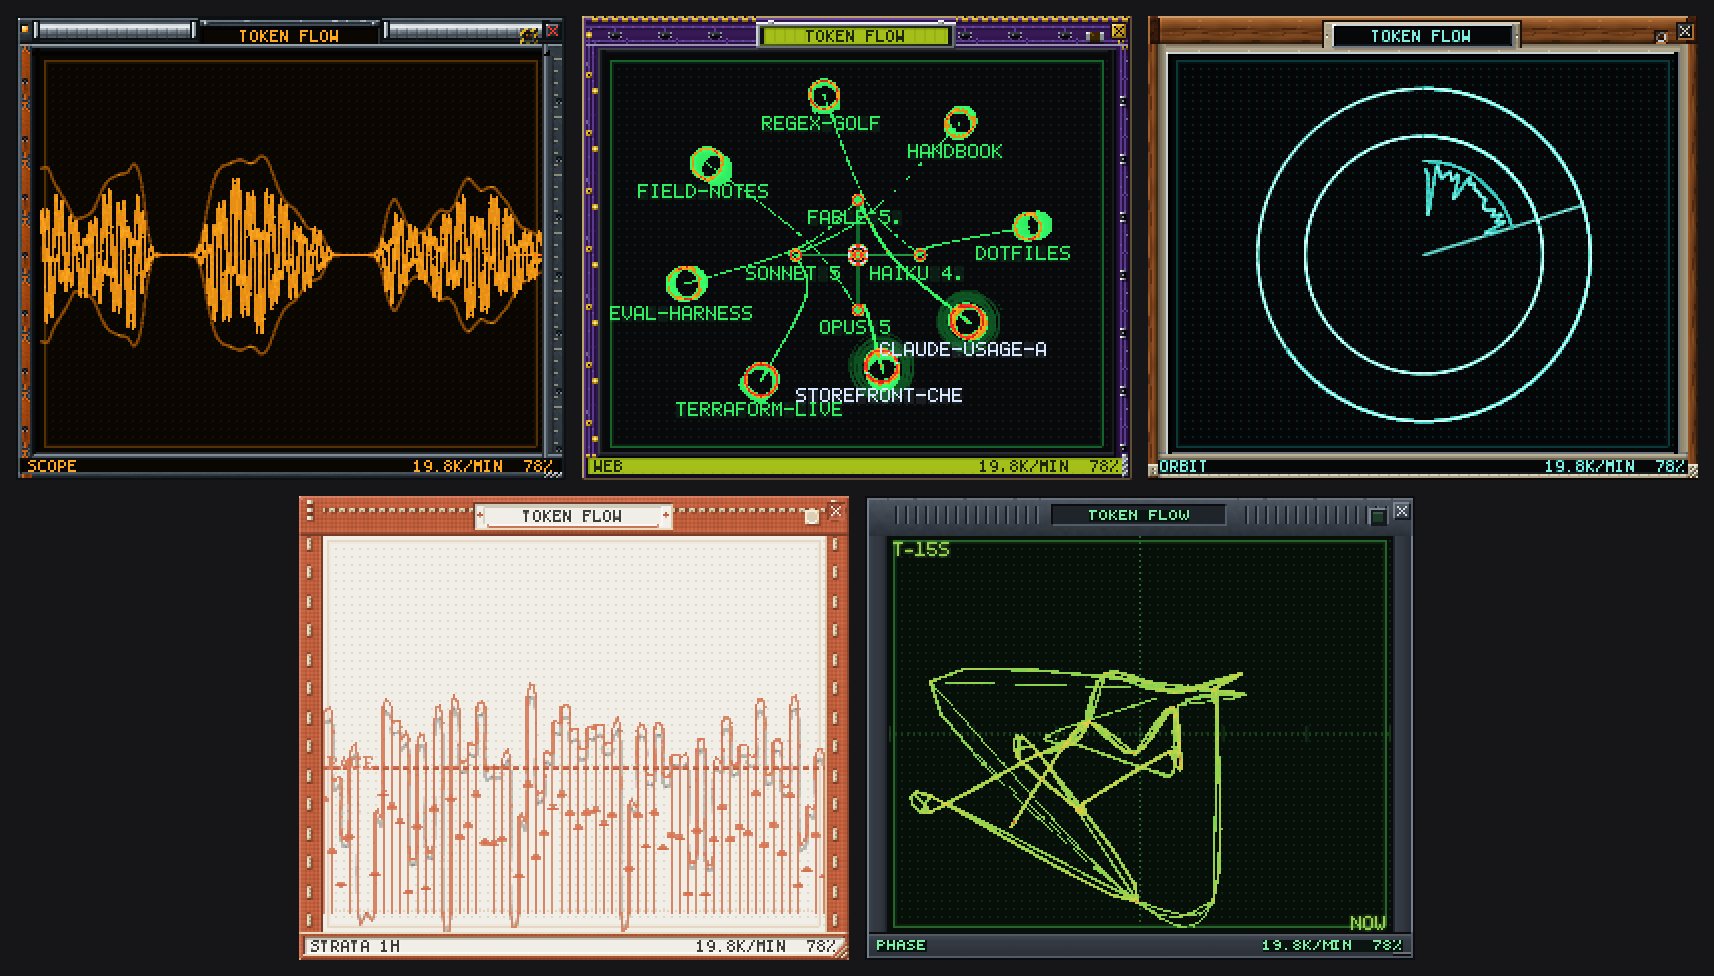
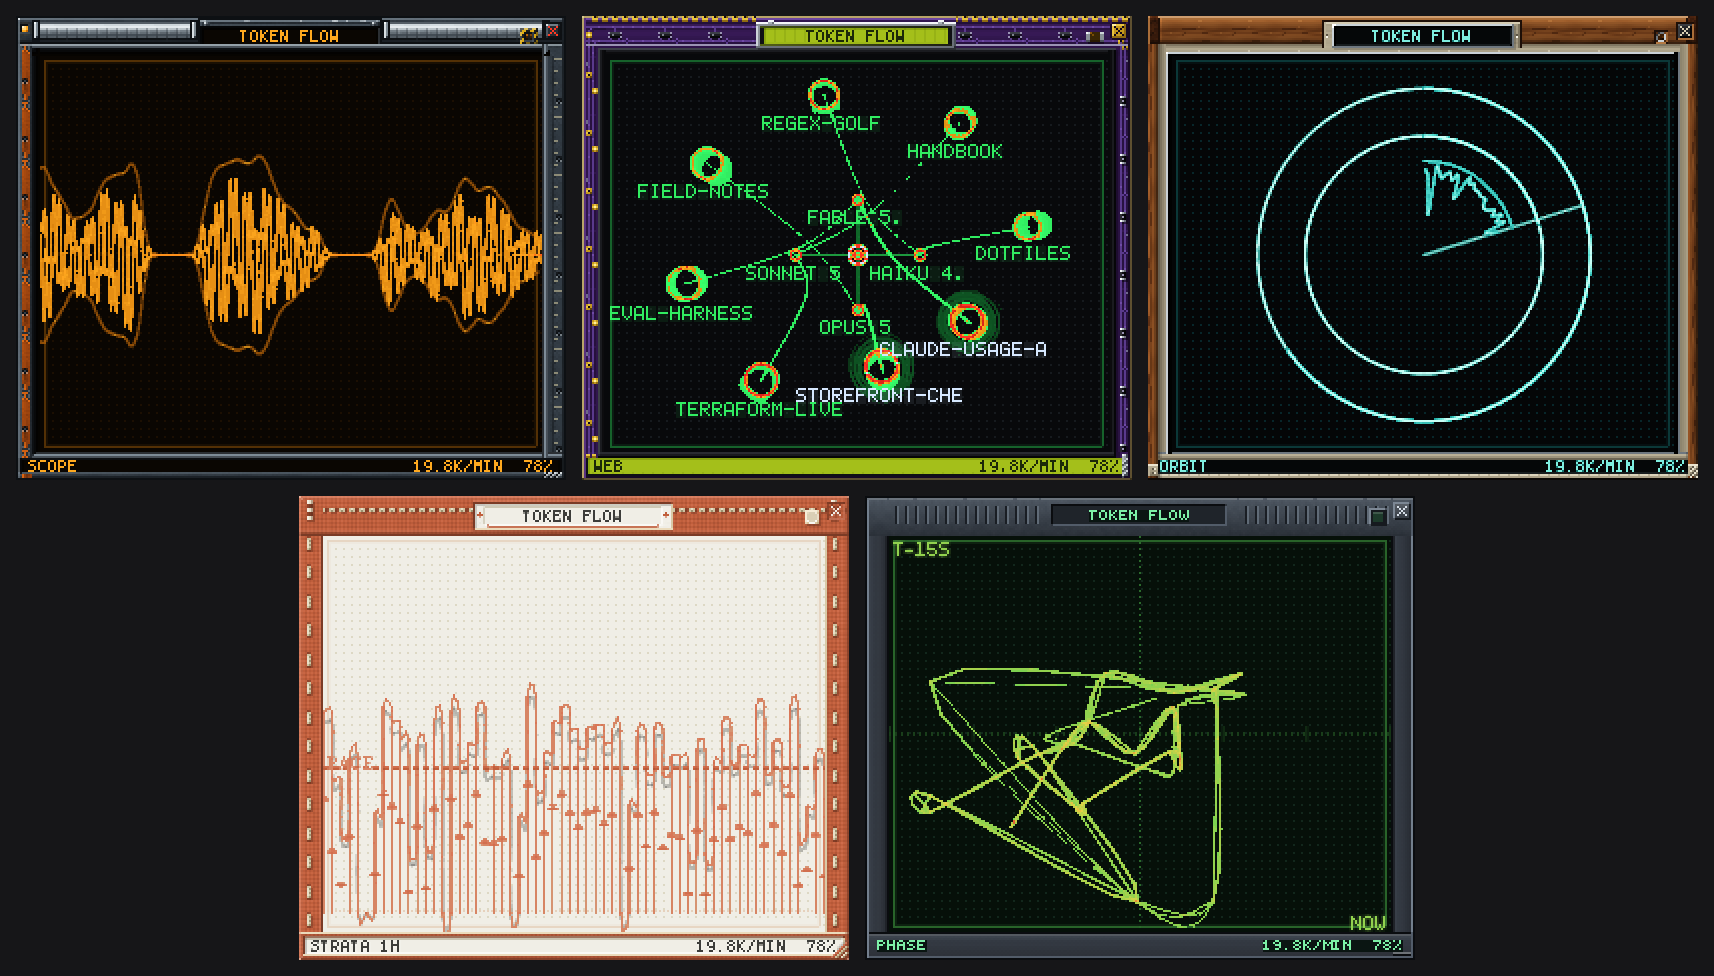
Make the phosphor tail draw motion instead of smearing a jump
Persistence is a property of a beam: it means the display is still showing where
the beam has been. SCOPE was not moving, though - it redrew the same waveform
every frame and then jumped a whole bucket every five seconds, so the tail was
smearing that jump rather than trailing anything.

SCOPE now scrolls continuously, sliding by the fraction of the newest 5 s bucket
elapsed, so the waveform flows past a beam head pinned at the right edge and the
tail is a genuine motion trail. The signal is sampled where it is rather than
where it is drawn, and the carrier phase travels with it, so the whole trace
moves as one piece instead of the outline sliding over a fixed ripple.

STRATA and PHASE are plots, not beams: they stand still until the data rolls.
They now get a short fixed tail, so a rolled bucket lands crisp.

--snapshot output stays byte-identical across processes.

Changed region(s): [[0.0, 0.1537, 0.3401, 0.3689]]

diff --git a/Sources/TokenampKit/Render/FieldGeometry.swift b/Sources/TokenampKit/Render/FieldGeometry.swift
@@ -32,7 +32,7 @@ public enum FieldGeometry {
                             mods: FieldModulators, span: FieldSpan,
                             flows: [String: Double], t: Double, now: Date) -> [FieldLabel] {
         switch mode {
-        case .scope: drawScope(f, s, mods, t); return []
+        case .scope: drawScope(f, s, mods, now); return []
         case .strata: return drawStrata(f, s, mods, span, now)
         case .web: return drawWeb(f, s, mods, flows, t, now)
         case .orbit: return drawOrbit(f, s, mods, t)
@@ -89,7 +89,7 @@ public enum FieldGeometry {
 
     /// The bipolar trace over the last 6 min 20 s: what came out above the axis, what went in
     /// below, and the context that was re-read as a mirrored echo behind both.
-    static func drawScope(_ f: PhosphorField, _ s: UsageSnapshot, _ m: FieldModulators, _ t: Double) {
+    static func drawScope(_ f: PhosphorField, _ s: UsageSnapshot, _ m: FieldModulators, _ now: Date) {
         let w = Double(f.width), h = Double(f.height), cy = h / 2
         let lastColumn = w - 1
         let amp = h / 2 - 10
@@ -113,6 +113,18 @@ public enum FieldGeometry {
         let into = envelope({ Double($0.tokens.input + $0.tokens.cacheWrite) }, 120, 24_000)
         let reread = envelope({ Double($0.tokens.cacheRead) }, 20_000, 1_200_000)
 
+        // How far into the newest 5-second bucket we are. The whole trace slides left by that
+        // fraction of a bucket, so the waveform flows past a beam head pinned at the right edge
+        // instead of standing still and jumping a whole bucket every five seconds - which is what
+        // turns the phosphor tail into a motion trail rather than a smear of the jump.
+        let pitch = lastColumn / Double(n - 1)
+        let roll: Double
+        if let last = fine.last, last.duration > 0 {
+            roll = min(1, max(0, now.timeIntervalSince(last.start) / last.duration)) * pitch
+        } else {
+            roll = 0
+        }
+
         func sample(_ v: [Double], _ u: Double) -> Double {
             let x = u * Double(n - 1)
             let i = min(n - 2, max(0, Int(x)))
@@ -121,7 +133,7 @@ public enum FieldGeometry {
 
         var up: [CGPoint] = [], down: [CGPoint] = []
         for i in 0..<n {
-            let x = lastColumn * Double(i) / Double(n - 1)
+            let x = lastColumn * Double(i) / Double(n - 1) - roll
             let a = reread[i] * amp * 0.95
             up.append(CGPoint(x: x, y: cy - a))
             down.append(CGPoint(x: x, y: cy + a))
@@ -136,9 +148,11 @@ public enum FieldGeometry {
             let share = 1.0 / (1 + 0.55 * Double(m.beams - 1))
             var prev: CGPoint?
             for j in 0...steps {
-                let u = Double(j) / Double(steps)
-                let x = u * (w - 1)
-                let phase = x * 0.78 + Double(k) * 2.1
+                let x = Double(j) / Double(steps) * (w - 1)
+                // Sample the signal where it *is* rather than where it is drawn, and carry the
+                // phase with it, so the whole waveform scrolls as one piece.
+                let u = min(1, max(0, (x + roll) / lastColumn))
+                let phase = (x + roll) * 0.78 + Double(k) * 2.1
                 let carrier = sin(phase) * 0.66 + sin(phase * 2.37 + 1.1) * 0.34
                 let a = carrier >= 0
                     ? carrier * sample(out, u) * amp * share
@@ -152,7 +166,7 @@ public enum FieldGeometry {
             for i in stride(from: k, to: n, by: 4) where fine[i].messages > 0 {
                 let peak = out[i] >= out[max(0, i - 1)] && out[i] >= out[min(n - 1, i + 1)]
                 guard peak else { continue }
-                let x = lastColumn * Double(i) / Double(n - 1)
+                let x = lastColumn * Double(i) / Double(n - 1) - roll
                 f.segment(x, cy - 3, x, cy + 3, 3.0 * m.energy)
             }
         }

diff --git a/Sources/TokenampKit/Logic/FieldModel.swift b/Sources/TokenampKit/Logic/FieldModel.swift
@@ -115,6 +115,20 @@ public struct FieldModulators: Equatable {
         beams = max(1, min(4, s.activeSessionCount))
     }
 
+    /// How long the tail should be for one configuration.
+    ///
+    /// Persistence is a property of a *beam*: it means the display is still showing where the beam
+    /// has been. That earns its keep in SCOPE, WEB and ORBIT, where something genuinely moves
+    /// between frames - the trace scrolls, pulses expand, the arm sweeps. STRATA and PHASE are
+    /// plots: they stand still until the data rolls, and then they jump. A long tail there does
+    /// not draw motion, it smears the jump, so they get a short one and read crisp.
+    public func tail(for mode: FieldMode) -> Double {
+        switch mode {
+        case .strata, .phase: return 0.2
+        case .scope, .web, .orbit: return persistence
+        }
+    }
+
     /// 0 = a steady stream of work, 1 = bursts separated by silence. Measured as the share of the
     /// recent fine buckets that are empty, which is exactly what makes work feel bursty.
     static func burstiness(_ s: UsageSnapshot) -> Double {

diff --git a/Sources/TokenampKit/Render/FieldRenderer.swift b/Sources/TokenampKit/Render/FieldRenderer.swift
@@ -161,10 +161,11 @@ public enum FieldRenderer {
         let mods = FieldModulators(snapshot: snapshot, now: now)
         // Six time constants of the slower (ghost) channel, spread over a fixed frame count.
         let frames = 48
-        let dt = max(1.0 / 30, mods.persistence * 2.2 * 6 / Double(frames))
+        let tail = mods.tail(for: mode)
+        let dt = max(1.0 / 30, tail * 2.2 * 6 / Double(frames))
         var labels: [FieldLabel] = []
         for i in 0..<frames {
-            field.decay(dt: dt, persistence: mods.persistence)
+            field.decay(dt: dt, persistence: tail)
             labels = FieldGeometry.draw(mode, into: field, snapshot: snapshot, mods: mods,
                                         span: span, flows: [:], t: Double(i) * dt, now: now)
         }

diff --git a/Sources/TokenampKit/UI/FieldWindowController.swift b/Sources/TokenampKit/UI/FieldWindowController.swift
@@ -91,7 +91,7 @@ public final class FieldWindowController: NSObject, SkinViewDelegate, NSWindowDe
         }
 
         elapsed += dt
-        field.decay(dt: dt, persistence: mods.persistence)
+        field.decay(dt: dt, persistence: mods.tail(for: mode))
         labels = FieldGeometry.draw(mode, into: field, snapshot: snapshot, mods: mods,
                                     span: app.prefs.fieldSpan, flows: app.sessionFlows(now: now),
                                     t: elapsed, now: now)

diff --git a/docs/SPEC.md b/docs/SPEC.md
@@ -135,7 +135,7 @@ in skin pixels through the skin's own `viscolor.txt`.
 
 | | Draws | Reads |
 |---|---|---|
-| **SCOPE** | Bipolar trace over the last 6 min 20 s: output above the axis, input + cache writes below, cache reads as a mirrored echo behind both. One trace per active session, so parallel work interferes on one axis. Messages punch through as blips; a comet marks `now`. | `fine` |
+| **SCOPE** | Bipolar trace over the last 6 min 20 s, scrolling continuously past a beam head pinned at the right edge (it slides by the fraction of the newest 5 s bucket elapsed, so the tail is a motion trail rather than a smear of a jump every five seconds): output above the axis, input + cache writes below, cache reads as a mirrored echo behind both. One trace per active session, so parallel work interferes on one axis. Messages punch through as blips; a comet marks `now`. | `fine` |
 | **STRATA** | The ledger: one riser per bucket with a tick where each fresh class ends, an outline over the total, cache reads as a ghost behind, and the **pace line** - the rate that lands exactly on the reset without hitting the wall. Span from the context menu or the wheel: last hour / last day / last 10 days. | `minutes`, `hours`, `days` |
 | **WEB** | The connectome: a hub, one node per model in play, one per session today. Node radius by tokens, brightness by recency, a pulse ring while live, edge energy by flow. Active sessions are held near the hub, idle ones drift to the rim. Names are set in the skin's `text.bmp` font. | `sessionsToday` + snapshot diffs |
 | **ORBIT** | The polar wall: angle is position in the limit window, radius is how hard the work was, and the rings *are* the limits - session inside, weekly outside - with the consumed arc filling each. Past 85 % the ring sheds sparks where the arc presses on it. | `limits`, `hours`, `minutes` |
@@ -146,6 +146,11 @@ in skin pixels through the skin's own `viscolor.txt`.
 **energy** (burn rate, faded down by idleness), **persistence** (the phosphor time constant: bursty
 work keeps a long tail, steady work a short one), **echo** (the cache-read layer), **phase**
 (where you are between resets), **beams** (one per active session).
+
+Persistence applies only where something genuinely moves between frames - SCOPE's scroll, WEB's
+pulses, ORBIT's arm. STRATA and PHASE are plots: they stand still until the data rolls and then
+jump, so a long tail there would smear the jump rather than draw motion, and they get a short fixed
+one instead.
 
 **AUTO** (the title-bar lamp, or the context menu) lets the field choose: idle -> ORBIT, or STRATA
 when there is history to read; one steady session -> SCOPE; two or more live -> WEB; a critical
